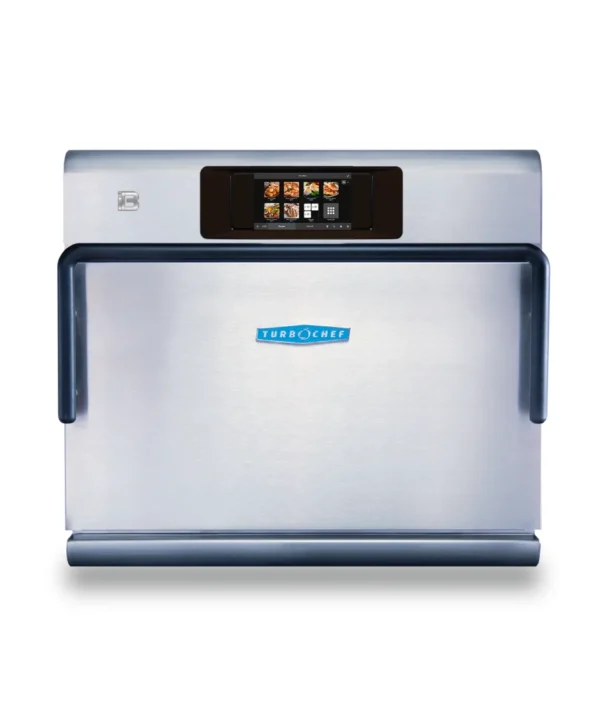
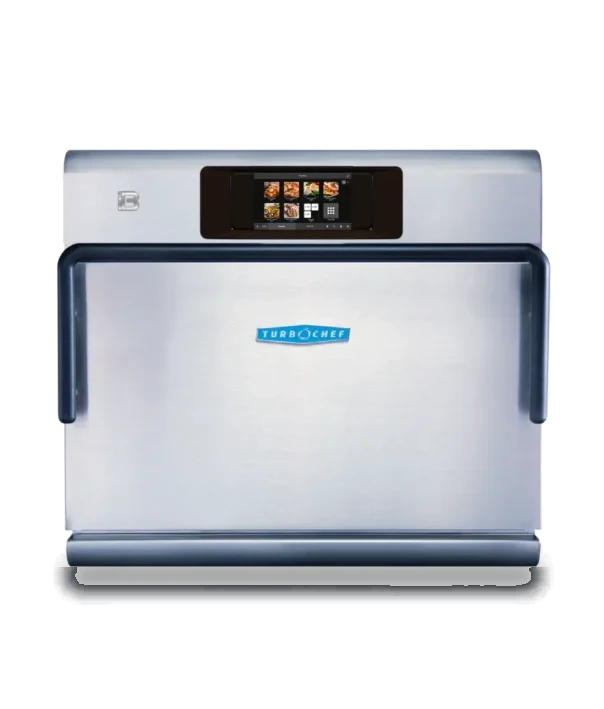
Manual promotion: email removal (llms.txt, _config.yml) + slideshow photo fixes
From staging 668ce97. Not promotable via the Diff page (non-page files):
- llms.txt, _config.yml: drop services@ address (spam)
- i3 / Double Batch / HhC 1618 slideshow photos: transparent backgrounds
  so they no longer show white blocks under forced dark mode
- index.html: ?v=2 on those three images to bust browser/CDN caches

Changed region(s): [[0.0894, 0.7757, 0.9238, 0.8688]]

diff --git a/index.html b/index.html
@@ -3037,15 +3037,15 @@
                             <span>ECO</span>
                         </div>
                         <div class="slide">
-                            <img src="images/turbochef-i3.webp" alt="TurboChef i3 Rapid Cook Oven" width="604" height="709" loading="lazy" decoding="async">
+                            <img src="images/turbochef-i3.webp?v=2" alt="TurboChef i3 Rapid Cook Oven" width="604" height="709" loading="lazy" decoding="async">
                             <span>i3 & i5</span>
                         </div>
                         <div class="slide">
-                            <img src="images/turbochef-double-batch.webp" alt="TurboChef Double Batch Oven" width="900" height="900" loading="lazy" decoding="async">
+                            <img src="images/turbochef-double-batch.webp?v=2" alt="TurboChef Double Batch Oven" width="900" height="900" loading="lazy" decoding="async">
                             <span>Double Batch</span>
                         </div>
                         <div class="slide">
-                            <img src="images/turbochef-hhc-1618.webp" alt="TurboChef HhC 1618 Conveyor Oven" width="900" height="900" loading="lazy" decoding="async">
+                            <img src="images/turbochef-hhc-1618.webp?v=2" alt="TurboChef HhC 1618 Conveyor Oven" width="900" height="900" loading="lazy" decoding="async">
                             <span>HhC 1618</span>
                         </div>
                         <div class="slide-dots" id="slideDots"></div>
